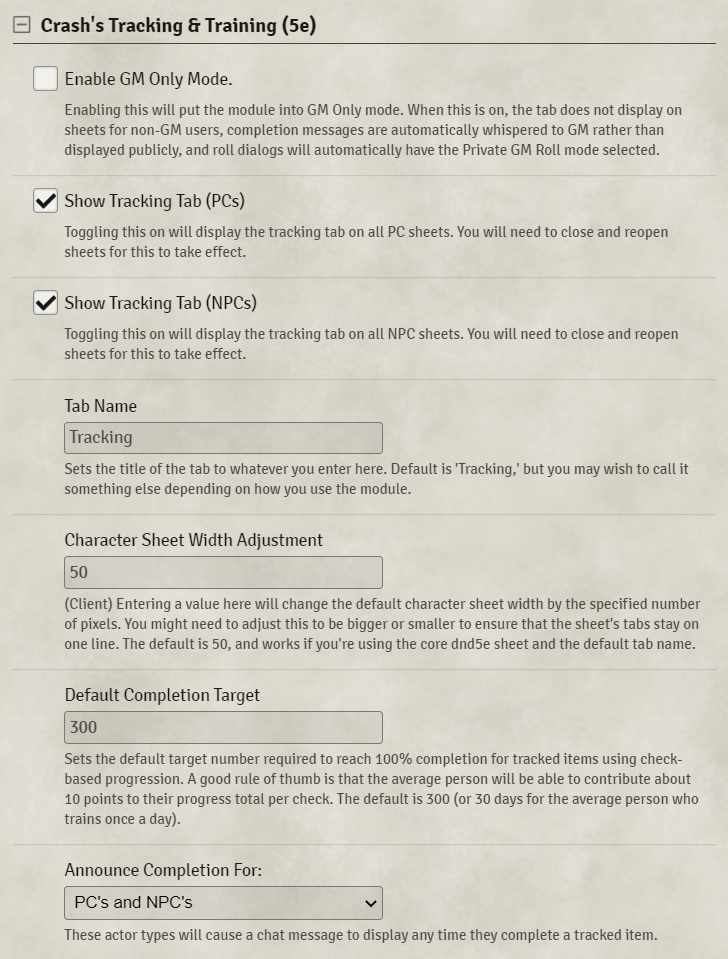
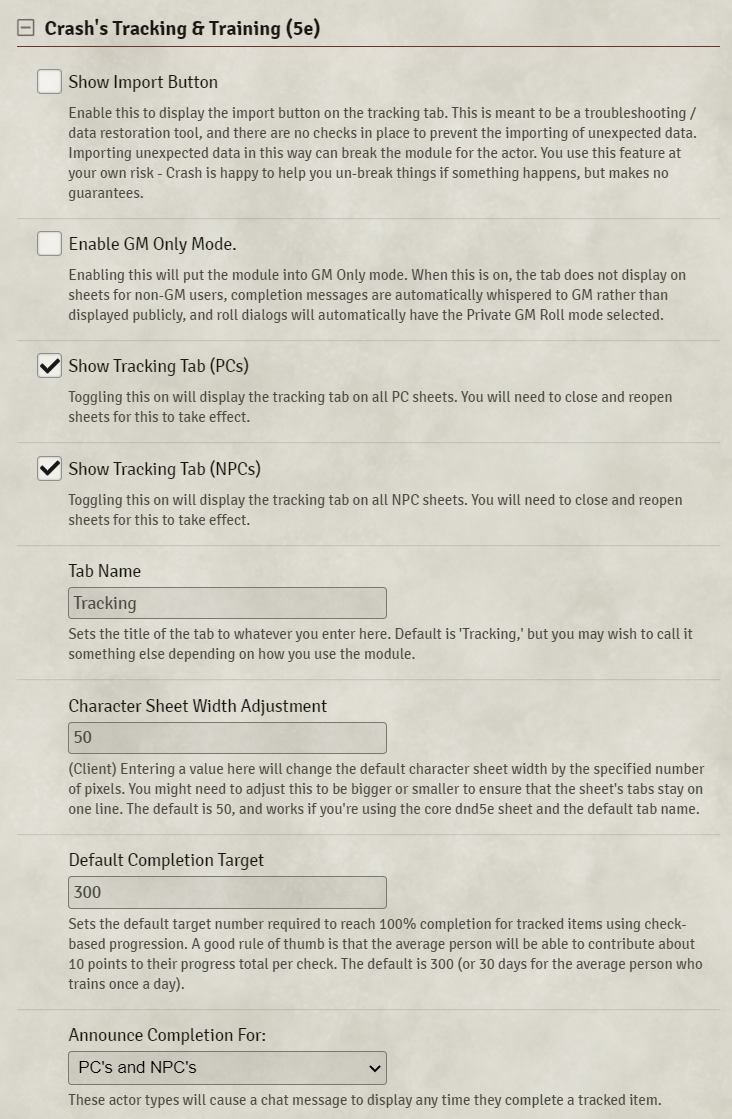
Put import button behind a warning

Changed region(s): [[0.0, 0.0, 0.967, 0.9979]]

diff --git a/templates/training-section.html b/templates/training-section.html
@@ -5,9 +5,11 @@
     <div class="crash-training-export" title="{{ localize 'C5ETRAINING.ExportTrackedItemsTooltip' }}">
       <i class="fas fa-file-import"></i> {{ localize 'C5ETRAINING.ExportTrackedItems' }}
     </div>
+    {{#if showImportButton}}
     <div class="crash-training-import" title="{{ localize 'C5ETRAINING.ImportTrackedItemsTooltip' }}">
       <i class="fas fa-file-export"></i> {{ localize 'C5ETRAINING.ImportTrackedItems' }}
     </div>
+    {{/if}}
     <div class="crash-training-audit push-left" title="{{ localize 'C5ETRAINING.ReviewChanges' }}">
       <i class="fas fa-clipboard"></i> {{ localize 'C5ETRAINING.ChangeLog' }}
     </div>

diff --git a/scripts/settings.js b/scripts/settings.js
@@ -9,6 +9,15 @@ export function registerSettings() {
     type: Number
   })
 
+  game.settings.register("5e-training", "showImportButton", {
+    name: game.i18n.localize("C5ETRAINING.SettingShowImportButton"),
+    hint: game.i18n.localize("C5ETRAINING.SettingShowImportButtonHint"),
+    scope: "client",
+    config: true,
+    default: false,
+    type: Boolean
+  });
+
   game.settings.register("5e-training", "gmOnlyMode", {
     name: game.i18n.localize("C5ETRAINING.SettingGmOnlyMode"),
     hint: game.i18n.localize("C5ETRAINING.SettingGmOnlyModeHint"),

diff --git a/scripts/crash-5e-training.js b/scripts/crash-5e-training.js
@@ -34,6 +34,10 @@ async function addTrainingTab(app, html, data) {
     let tabs = html.find('.tabs[data-group="primary"]');
     tabs.append(trainingTabBtn);
 
+    // Get some permissions
+    let showImportButton = game.settings.get("5e-training", "showImportButton");
+    data.showImportButton = showImportButton;
+
     // Create the tab content
     let sheet = html.find('.sheet-body');
     let trainingTabHtml = $(await renderTemplate('modules/5e-training/templates/training-section.html', data));
